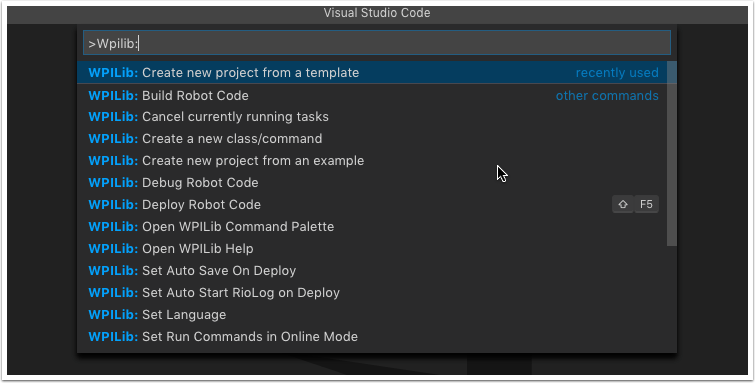
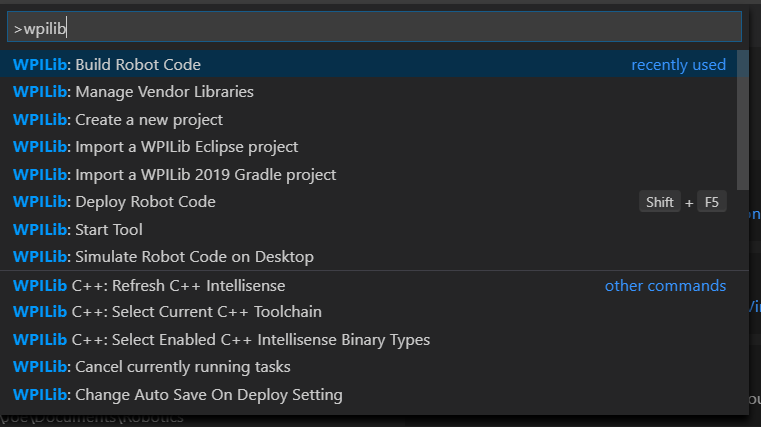
update VS Code menu pictures and fix wpilib project creation (#319)
* update VS Code menu pictures

Screenshot showed "Create a New Project from Template" which no longer
exists and confused a beta team

* additional fixes based on #311 and #295

* Do not check desktop support checkbox for benchtop example

* Fix WPILib Capitalization

Changed region(s): [[0.0, 0.0, 1.0, 1.0], [0.6397, 0.4308, 0.6702, 0.4883]]

diff --git a/source/docs/software/wpilib-overview/creating-robot-program.rst b/source/docs/software/wpilib-overview/creating-robot-program.rst
@@ -125,7 +125,7 @@ If desired, users can omit a base class entirely and simply write their program 
 Creating a New WPILib Project
 -----------------------------
 
-Once we've decided on a base class, we can create our new robot project.  Bring up the Visual Studio Code command palette with Control+Shift+P:
+Once we've decided on a base class, we can create our new robot project.  Bring up the Visual Studio Code command palette with :kbd:"Control+Shift+P":
 
 |Command Palette|
 
@@ -145,26 +145,27 @@ The elements of the New Project Creator Window are explained below:
 
 1. **Project Type**: The kind of project we wish to create.  This can be an example project, or one of the project templates provided by WPILib.  Templates exist for each of the robot base classes.  Additionally, a template exists for :ref:`Command-based <docs/software/commandbased/what-is-command-based:What is "command-based" programming?>` projects, which are built on the :code:`TimedRobot` base class but include a number of additional features - this type of robot program is highly recommended for new teams.
 2. **Language**: This is the language (C++ or Java) that will be used for this project.
-3. **Template Type**: If this is a template project, this specifies the type of template that will be used.
+3. **Project Base**: If this is a template project, this specifies the type of template that will be used.
 4. **Project Location**: This determines the folder in which the robot project will be located.
 5. **Create New Folder**: If this is checked, a new folder will be created to hold the project within the previously-specified folder.  If it is *not* checked, the project will be located directly in the previously-specified folder.  An error will be thrown if the folder is not empty and this is not checked.
 6. **Project Name**: The name of the robot project.  This also specifies the name that the project folder will be given if the Create New Folder box is checked.
 7. **Team Number**: The team number for the project, which will be used for package names within the project and to locate the robot when deploying code.
+8. **Desktop Support**: Enables unit test and simulation. While WPILib supports this, third party software libraries may not. If libraries do not support desktop, then your code may not compile or may crash. It should be left unchecked unless unit testing or simulation is needed and all libraries support it.
 
 Once all the above have been configured, click "Generate Project" and the robot project will be created.
 
 .. note:: Any errors in project generation will appear in the bottom right-hand corner of the screen.
+
+An example after all options are selected is shown below.
 
 |New Project Configured|
 
 Opening The New Project
 -----------------------
 
-After successfully creating your project, VS Code will give the option of opening the project as shown below. We can choose to do that now or later by typing Ctrl-O (Command+O on macOS) and select the folder where We saved our project.
+After successfully creating your project, VS Code will give the option of opening the project as shown below. We can choose to do that now or later by typing :kbd:`Ctrl-K` then :kbd:`Ctrl-O` (or just :kbd:`Command+O` on macOS) and select the folder where We saved our project.
 
 Once opened we will see the project hierarchy on the left. Double clicking on the file will open that file in the editor.
-
-.. todo:: Replace this image with an up-to-date one (also, ew light theme)
 
 |Opened Robot Project|
 

diff --git a/source/docs/getting-started/running-a-benchtop/creating-benchtop-test-program-cpp-java.rst b/source/docs/getting-started/running-a-benchtop/creating-benchtop-test-program-cpp-java.rst
@@ -26,11 +26,12 @@ The elements of the New Project Creator Window are explained below:
 
 1. **Project Type**: The kind of project we wish to create.  For this example, select **Example**
 2. **Language**: This is the language (C++ or Java) that will be used for this project.
-3. **Base class or example**: This box is used to select the base class or example to generate the project from. For this example, select **Getting Started**
+3. **Project Base**: This box is used to select the base class or example to generate the project from. For this example, select **Getting Started**
 4. **Project Location**: This determines the folder in which the robot project will be located.
 5. **Create New Folder**: If this is checked, a new folder will be created to hold the project within the previously-specified folder.  If it is *not* checked, the project will be located directly in the previously-specified folder.  An error will be thrown if the folder is not empty and this is not checked.
 6. **Project Name**: The name of the robot project.  This also specifies the name that the project folder will be given if the Create New Folder box is checked.
 7. **Team Number**: The team number for the project, which will be used for package names within the project and to locate the robot when deploying code.
+8. **Desktop Support**: Enables unit test and simulation. While WPILib supports this, third party software libraries may not. If libraries do not support desktop, then your code may not compile or may crash. It should be left unchecked unless unit testing or simulation is needed and all libraries support it. For this example, do not check this box.
 
 Once all the above have been configured, click "Generate Project" and the robot project will be created.
 
